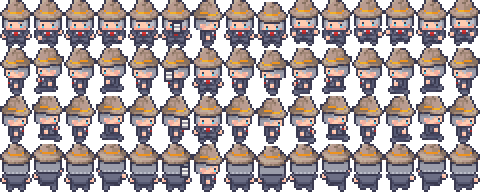
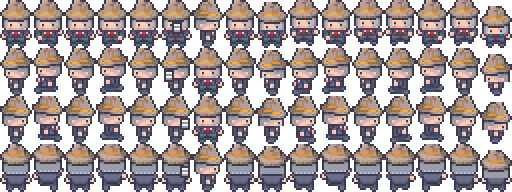
art: a 16th column -- head down on the desk, held
Every character sheet gains column 15, a slump. For the kids it is
LimeZu's OWN sleep row (row 3: head and shoulders, nothing below, drawn
for a child in bed) which is exactly a head laid on a desk, because the
desk hides what that row leaves out. Adults have no sleep row at that
index -- their sheets are 20 rows -- so theirs is derived from the
seated frame with the head drooped, keeping the rule that every
character has every pose.

Placed by measurement, not by a fixed offset: the sleep row and the idle
row are composed from different layers and do not share a baseline, so
the frame is sunk until its head sits `slump_down` (default 4) rows below
where the seated head sits. One number per character in `tune`, like
`sit_up`.

Held, not played: a child who has stopped getting anything out of the
lesson leaves their head down, so Actor carries `slumped` and
`seated_frame()` chooses the column. A 15- or 9-wide sheet has no column
15, so it falls back to sitting up.

Wired to is_capped() alone -- art only. The bubble logic is untouched,
no new bubble appears, and nothing here is a grade input: the pose is
the read. bubble_zzz stays built and unwired until there is a reason for
a second signal on the same child.

Checked: 17 sheets re-baked to 16x4, art imported, game boots headless
with no script error, slump frame measured against the seated frame on
two characters. Suite and walkthrough skipped at the owner's instruction.

diff --git a/tools/limezu_chars.py b/tools/limezu_chars.py
@@ -30,12 +30,22 @@ WHAT MAPS TO WHAT (LimeZu row, direction order right/up/left/down, 6 frames each
     col 6  chat             a different facing: turned to talk to a neighbour
     col 7  jump             idle, raised (the contact shadow stays on the floor)
     col 8  sad              idle with the head sunk onto the shoulders
+    col 15 slump            head down on the desk. A kid's sheet carries LimeZu's OWN
+                            sleep row (row 3: head and shoulders, nothing below, six
+                            frames, one direction) -- drawn for a child in bed, and
+                            exactly right for a head laid on a desk, because the desk
+                            hides what the row leaves out. Sunk `slump_down` rows
+                            below the seated frame so the head rests ON the desk
+                            instead of floating at sitting height. Adults have no such
+                            row at index 3 (their sheets are 20 rows), so theirs is
+                            derived: the seated frame with the head drooped.
     cols 9-14  walk         LimeZu's own six walk frames, in order (the real cycle:
                             the two big strides are frames 1 and 4, the other four
                             are the passing poses that give the body its bob).
                             Cols 0-8 are unchanged, so a 9-column sheet from before
                             this still plays: Actor falls back to the old 4-step
-                            cycle when a sheet is only 9 wide.
+                            cycle when a sheet is only 9 wide, and to the seated
+                            frame when a sheet has no column 15.
   Rows are the game's: down, left, right, up. The pack has no front-facing seated
   pose, no mouths and no kid poses beyond idle/walk/sleep, so cols 4-8 are derived
   from the idle frames by small, deterministic edits -- the same approach for kids
@@ -71,9 +81,10 @@ CG = "2_Characters/Character_Generator/"
 DIRS = ("right", "up", "left", "down")          # LimeZu's group order
 GAME_ROWS = ("down", "left", "right", "up")     # Actor.DIR_DOWN / LEFT / RIGHT / UP
 ROW_IDLE, ROW_WALK = 1, 2                       # row 0 is a 32px header of previews
+ROW_SLEEP = 3                                   # kid sheets only: 6 frames, one direction
 CELL_H = 32
 FRAME_W, FRAME_H = 16, 24                       # the game's cell, in art pixels
-COLS = 15
+COLS = 16
 WALK_FRAMES = 6                                 # LimeZu's walk row: 6 frames per direction
 
 # LimeZu's keyline family. These (and fully transparent / soft-black shadow pixels)
@@ -204,6 +215,20 @@ def to_frame(cell, up=0):
     return padded.crop((0, top_row, 16, top_row + FRAME_H))
 
 
+def sink(frame, rows):
+    """Move a whole frame `rows` art pixels DOWN; anything past the bottom is cut.
+
+    The sleep row is composed from four layers whose figures do not sit at the
+    same height in the cell as the idle row's, so the slumped head is placed by
+    measuring both frames rather than by a fixed `up` -- see build_frames().
+    Whatever falls off the bottom is behind the desk anyway.
+    """
+    pad = Image.new("RGBA", (FRAME_W, FRAME_H * 3), (0, 0, 0, 0))
+    pad.alpha_composite(frame, (0, FRAME_H))
+    top = FRAME_H - rows
+    return pad.crop((0, top, FRAME_W, top + FRAME_H))
+
+
 def droop(frame, rows=1):
     """Head sunk onto the shoulders: the top 14 figure-rows slide down `rows`."""
     bb = frame.getbbox()
@@ -238,10 +263,14 @@ def held_paper(frame, row_name):
     return f
 
 
-def build_frames(sheet, tuning):
-    """-> {row_name: [15 frames of 16x24]} in the game's column order."""
+def build_frames(sheet, tuning, kind="kid"):
+    """-> {row_name: [16 frames of 16x24]} in the game's column order."""
     sit_up = tuning.get("sit_up", 3)
     jump_up = tuning.get("jump_up", 3)
+    # How far below the SEATED head the slumped head rests. Four art pixels
+    # keeps it on the desk's top edge; much more and the desk swallows it.
+    slump_down = tuning.get("slump_down", 4)
+    kid_sheet = kind == "kid" and sheet.height // CELL_H > ROW_SLEEP
     out = {}
     for row_name in GAME_ROWS:
         d = DIRS.index(row_name)
@@ -255,13 +284,25 @@ def build_frames(sheet, tuning):
         jump = to_frame(lz_cell(sheet, ROW_IDLE, d, 0), up=jump_up)
         sad = droop(stand)
         walk = [to_frame(lz_cell(sheet, ROW_WALK, d, k)) for k in range(WALK_FRAMES)]
-        out[row_name] = [stand, step_a, stand, step_b, sit, handoff, chat, jump, sad] + walk
+        if kid_sheet:
+            # Measured, not assumed: drop the sleep frame until its head sits
+            # `slump_down` rows below where the seated head sits. The two rows
+            # are composed from different layers and do not share a baseline.
+            head = to_frame(lz_cell(sheet, ROW_SLEEP, 0, 0))
+            hb, sb = head.getbbox(), sit.getbbox()
+            if hb and sb:
+                slump = sink(head, (sb[1] + slump_down) - hb[1])
+            else:
+                slump = droop(sit, rows=3)
+        else:
+            slump = droop(sit, rows=3)
+        out[row_name] = [stand, step_a, stand, step_b, sit, handoff, chat, jump, sad]             + walk + [slump]
     return out
 
 
 def bake(name, spec, cast, pack):
     sheet = compose(spec, cast, pack)
-    frames = build_frames(sheet, spec.get("tune", {}))
+    frames = build_frames(sheet, spec.get("tune", {}), spec.get("kind", "kid"))
     out = Image.new("RGBA", (COLS * FRAME_W * 2, 4 * FRAME_H * 2), (0, 0, 0, 0))
     for r, row_name in enumerate(GAME_ROWS):
         for c, fr in enumerate(frames[row_name]):
